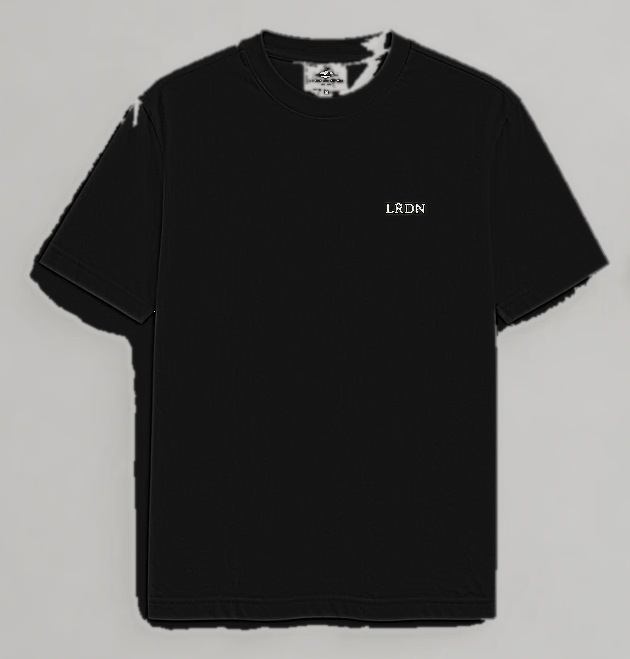
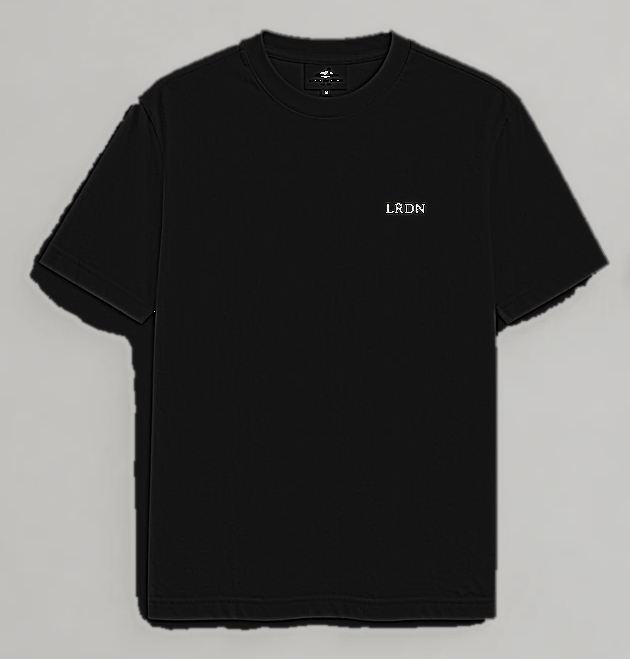
Corriger la tache blanche au col : la bordure côtelée fusionnait avec le fond
La bordure côtelée du col est naturellement plus claire que le reste du
tissu, assez proche de la couleur du fond studio pour être considérée
comme fond par la détection de couleur. Normalement sans effet (elle
n'est pas reliée au bord de l'image), mais un minuscule interstice à la
jonction des deux pans du col créait un pont vers le vrai fond — ce qui
faisait basculer tout le tour du col (et l'étiquette à l'intérieur) en
« fond, à ne pas recolorer », laissant une tache/trace claire bien
visible sur les coloris sombres.

Ajout d'une ouverture morphologique avant de déterminer quelles zones
sont reliées au bord de l'image : elle coupe ce pont étroit sans toucher
à la grande étendue du vrai fond, donc la bordure du col est maintenant
recolorée comme le reste du vêtement.
Claude-Session: https://claude.ai/code/session_01JcT3HfdB21VBu6dsokyrCK

Changed region(s): [[0.4524, 0.0303, 0.6333, 0.1517], [0.7841, 0.4856, 0.8143, 0.5159], [0.2111, 0.1517, 0.2413, 0.1821]]

diff --git a/scripts/recolor-catalog.py b/scripts/recolor-catalog.py
@@ -107,7 +107,22 @@ def garment_mask(arr: np.ndarray):
     dist = np.sqrt(((arr.astype(float) - bg_ref) ** 2).sum(axis=2))
     bg_like = dist < BG_TOLERANCE
 
-    labeled, _ = ndimage.label(bg_like)
+    # The ribbed collar trim photographs noticeably lighter than the rest
+    # of the body fabric — close enough to the studio backdrop's grey that
+    # it's "bg_like" in its own right. Normally that's harmless (it's not
+    # connected to the image border, so the flood-fill below leaves it as
+    # garment) — but at the gap where the two sides of the collar meet, a
+    # narrow sliver of bg_like pixels can bridge the ribbing to the real
+    # background, which then sweeps the *entire* ribbing loop (and the
+    # neck label sitting inside it) into "background, don't recolor":
+    # exactly the stray light patch at the collar on dark colorways. An
+    # opening (erode then dilate) breaks narrow bridges like that one
+    # pixel-wide gap while leaving the wide expanse of real background
+    # fully connected, so it's used only to decide *which* regions count
+    # as background, not to shrink the final mask itself.
+    bg_like_for_connectivity = ndimage.binary_opening(bg_like, structure=np.ones((5, 5), dtype=bool))
+
+    labeled, _ = ndimage.label(bg_like_for_connectivity)
     border_labels = set(labeled[0, :]) | set(labeled[-1, :])
     border_labels |= set(labeled[:, 0]) | set(labeled[:, -1])
     border_labels.discard(0)
